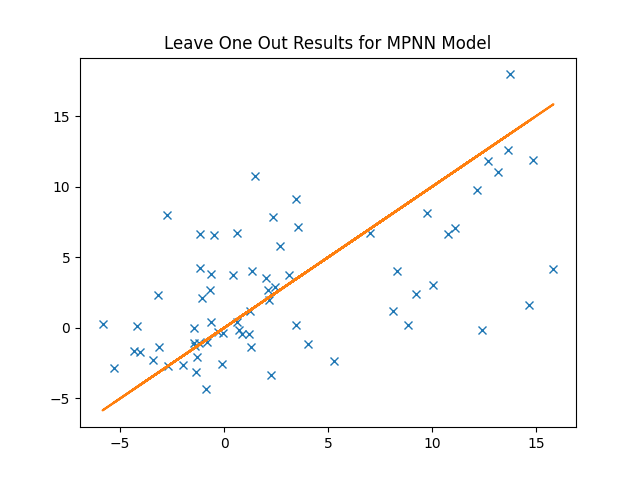
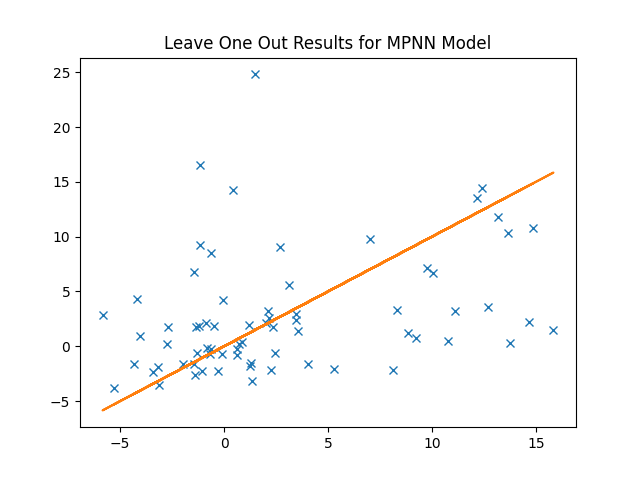
add results from more tests

diff --git a/testing_script.py b/testing_script.py
@@ -32,8 +32,8 @@ for idx, row in tqdm(graph_list.iterrows(), total=len(graph_list)):
 
 
     loader =  DataLoader(x_train, batch_size=16, shuffle=True)
-    model = GCNModel(in_channels=num_node_features, hidden_dim=64, out_dim=1, dropout_rate=0.2)
-    # model = MPNNModel(in_channels=num_node_features, edge_dim=num_edge_features, hidden_dim=64, num_layers=3, out_dim=1)
+    # model = GCNModel(in_channels=num_node_features, hidden_dim=64, out_dim=1, dropout_rate=0.2)
+    model = MPNNModel(in_channels=num_node_features, edge_dim=num_edge_features, hidden_dim=64, num_layers=3, out_dim=1)
     train_gcn_model_batched(loader, model, lr=1e-3, epochs=300)
     model.eval()
     with torch.no_grad():

diff --git a/main.py b/main.py
@@ -46,5 +46,5 @@ train_loader = DataLoader(graphs, batch_size=16, shuffle=True)
 gcn_model = GCNModel(in_channels=num_node_features, hidden_dim=64, out_dim=1)
 mpnn_model = MPNNModel(in_channels=num_node_features, edge_dim=num_edge_features, hidden_dim=64, num_layers=3, out_dim=1)
 
-train_gcn_model_batched(train_loader, mpnn_model, lr=1e-3, epochs=300)
+train_gcn_model_batched(train_loader, mpnn_model, lr=1e-3, epochs=500)
 plot_predictions(train_loader, mpnn_model, "MPNN")
